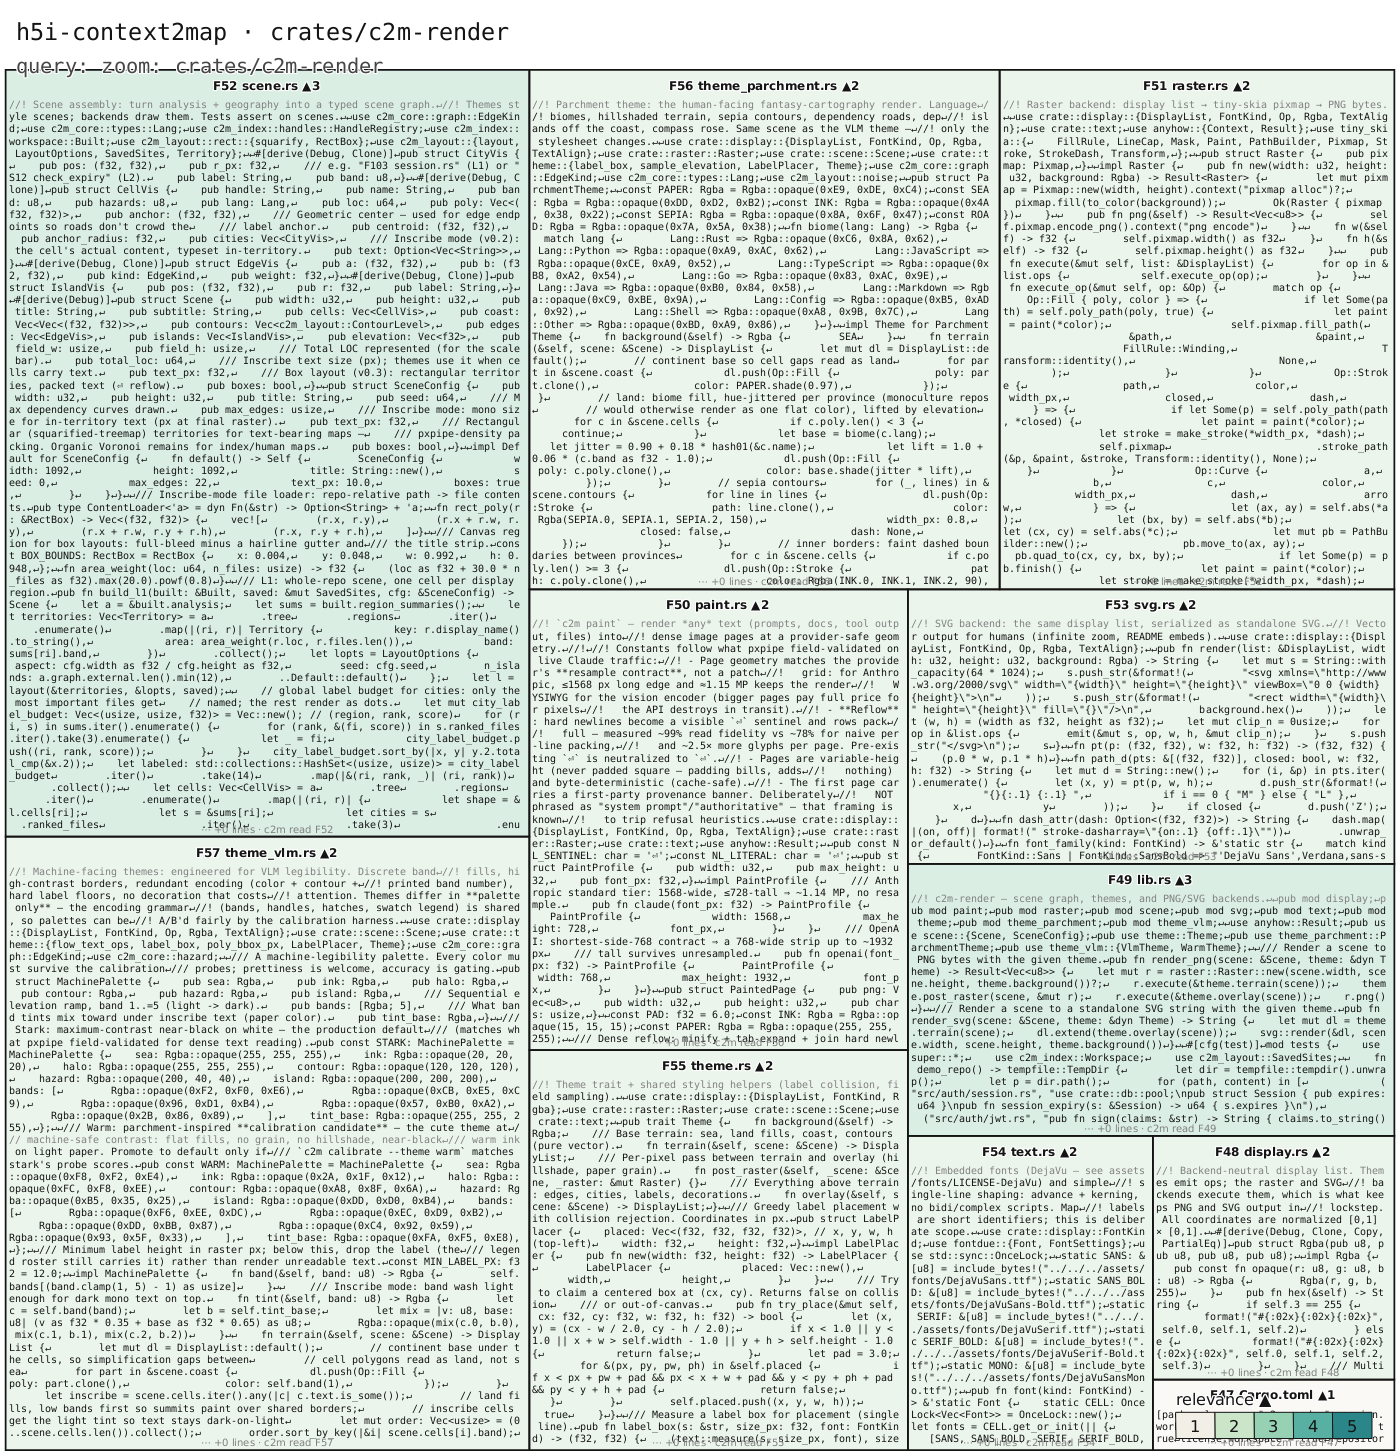
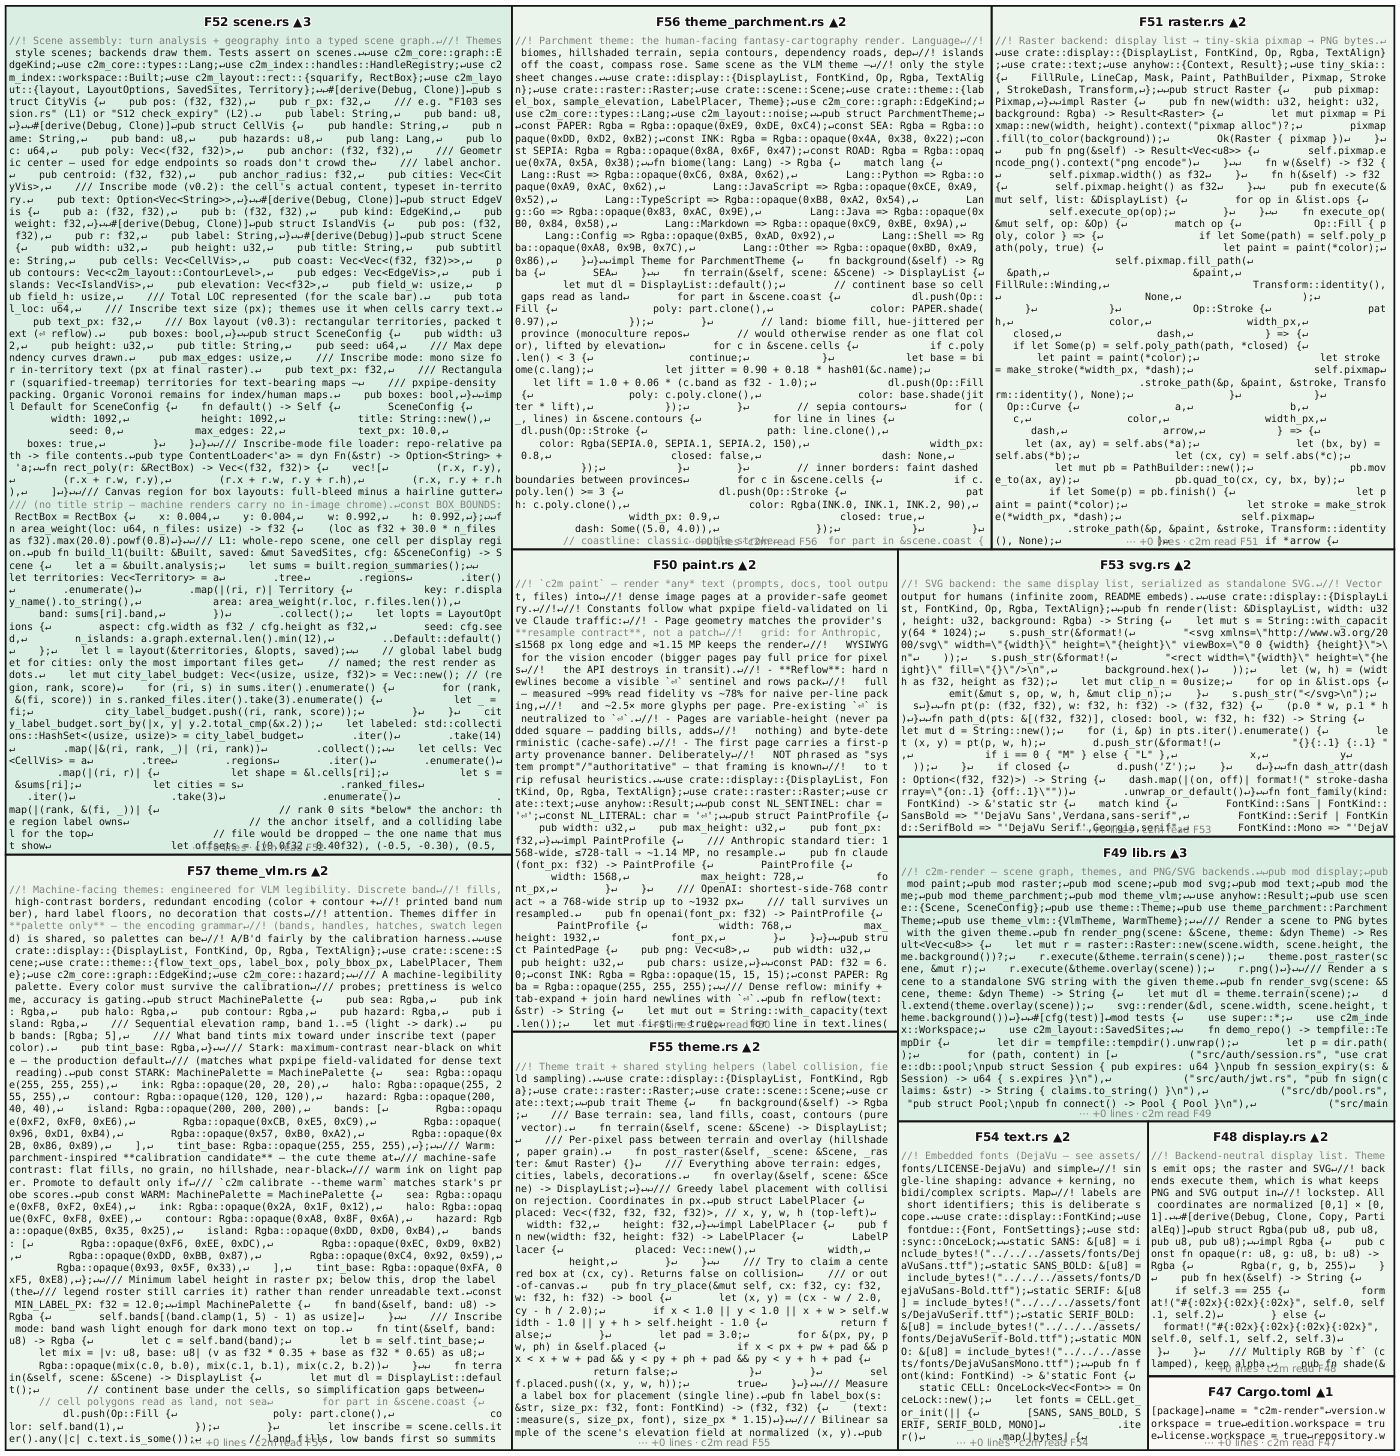
Drop in-image chrome from machine renders; legend rides as text/file
Machine themes no longer draw the title, query line, or band swatch
bar — that information always accompanies the render as text (legend,
roster, section TOC, factsheet), so in-image copies paid pixels for
nothing. Box layouts reclaim the title strip (full-bleed content).
paint now also writes the companion text beside the first page as
<name>.legend.txt (and reports legend_path in --json), so the pair
image+legend can be shipped around as files. README assets
regenerated chrome-free.

diff --git a/crates/c2m-render/src/theme_vlm.rs b/crates/c2m-render/src/theme_vlm.rs
@@ -330,68 +330,9 @@ impl MachinePalette {
             }
         }
 
-        // header: title + query (mono, top-left)
-        let hsize = (h * 0.014).max(MIN_LABEL_PX);
-        if !scene.title.is_empty() {
-            dl.push(Op::Text {
-                pos: (0.012, 0.028),
-                text: scene.title.clone(),
-                size_px: hsize * 1.15,
-                color: self.ink,
-                font: FontKind::Mono,
-                align: TextAlign::Left,
-                halo: Some(self.halo),
-            });
-        }
-        if !scene.subtitle.is_empty() {
-            dl.push(Op::Text {
-                pos: (0.012, 0.028 + hsize * 1.6 / h),
-                text: format!("query: {}", scene.subtitle),
-                size_px: hsize,
-                color: Rgba::opaque(70, 70, 70),
-                font: FontKind::Mono,
-                align: TextAlign::Left,
-                halo: Some(self.halo),
-            });
-        }
-
-        // band swatch bar (bottom-right): redundant legend inside the image
-        let sw = 0.028f32;
-        let sh = 0.018f32;
-        for band in 1..=5u8 {
-            let x = 1.0 - 0.02 - sw * (5 - band as i32 + 1) as f32;
-            let y = 1.0 - 0.03;
-            let poly = vec![(x, y), (x + sw, y), (x + sw, y + sh), (x, y + sh)];
-            dl.push(Op::Fill {
-                poly: poly.clone(),
-                color: self.band(band),
-            });
-            dl.push(Op::Stroke {
-                path: poly,
-                color: self.ink,
-                width_px: 1.0,
-                closed: true,
-                dash: None,
-            });
-            dl.push(Op::Text {
-                pos: (x + sw / 2.0, y + sh * 0.78),
-                text: format!("{band}"),
-                size_px: (h * sh * 0.62).max(9.0),
-                color: self.ink,
-                font: FontKind::Sans,
-                align: TextAlign::Center,
-                halo: None,
-            });
-        }
-        dl.push(Op::Text {
-            pos: (1.0 - 0.02 - sw * 5.0, 1.0 - 0.035),
-            text: "relevance ▲".to_string(),
-            size_px: (h * 0.011).max(9.0),
-            color: self.ink,
-            font: FontKind::Sans,
-            align: TextAlign::Left,
-            halo: Some(self.halo),
-        });
+        // No in-image title/query/swatch: that information always rides as
+        // adjacent text (legend/roster), and pixels are for content. Human
+        // themes keep their decorations.
         dl
     }
 }

diff --git a/crates/c2m-cli/src/ops.rs b/crates/c2m-cli/src/ops.rs
@@ -936,12 +936,36 @@ fn report_paint(
     sheet: &str,
     toc: Option<&str>,
 ) {
+    // the accompanying text (banner + toc + factsheet) — printed AND written
+    // beside the first page, since images deliberately carry no chrome
+    let mut companion = String::new();
+    companion.push_str(banner);
+    companion.push('\n');
+    if let Some(toc) = toc {
+        companion.push_str(&format!("# sections: {toc}\n"));
+    }
+    if !sheet.is_empty() {
+        companion.push_str(sheet);
+        companion.push('\n');
+    }
+    companion.push_str(&format!(
+        "# ~{image_tokens} image tok vs ~{text_tokens} text tok (~{:.0}% cut) — READ THE PAGES IN ORDER; quote identifiers from the factsheet, not the image\n",
+        (1.0 - image_tokens as f64 / text_tokens.max(1) as f64) * 100.0
+    ));
+    let legend_path = pages
+        .first()
+        .map(|(p, _, _)| p.with_extension("legend.txt"));
+    if let Some(lp) = &legend_path {
+        let _ = std::fs::write(lp, &companion);
+    }
+
     if json {
         println!(
             "{}",
             serde_json::json!({
                 "banner": banner,
                 "pages": pages.iter().map(|(p, _, _)| p).collect::<Vec<_>>(),
+                "legend_path": legend_path,
                 "image_tokens": image_tokens,
                 "text_tokens_estimate": text_tokens,
                 "savings_pct": (1.0 - image_tokens as f64 / text_tokens.max(1) as f64) * 100.0,
@@ -951,7 +975,6 @@ fn report_paint(
         );
         return;
     }
-    println!("{banner}");
     for (p, w, h) in pages {
         println!(
             "# page: {} ({w}x{h}, ~{} image tok)",
@@ -959,16 +982,7 @@ fn report_paint(
             provider.tokens(*w, *h)
         );
     }
-    if let Some(toc) = toc {
-        println!("# sections: {toc}");
-    }
-    if !sheet.is_empty() {
-        println!("{sheet}");
-    }
-    println!(
-        "# ~{image_tokens} image tok vs ~{text_tokens} text tok (~{:.0}% cut) — READ THE PAGES IN ORDER; quote identifiers from the factsheet, not the image",
-        (1.0 - image_tokens as f64 / text_tokens.max(1) as f64) * 100.0
-    );
+    print!("{companion}");
 }
 
 // ---------------------------------------------------------------- calibrate

diff --git a/crates/c2m-render/src/scene.rs b/crates/c2m-render/src/scene.rs
@@ -113,13 +113,13 @@ fn rect_poly(r: &RectBox) -> Vec<(f32, f32)> {
     ]
 }
 
-/// Canvas region for box layouts: full-bleed minus a hairline gutter and
-/// the title strip.
+/// Canvas region for box layouts: full-bleed minus a hairline gutter
+/// (no title strip — machine renders carry no in-image chrome).
 const BOX_BOUNDS: RectBox = RectBox {
     x: 0.004,
-    y: 0.048,
+    y: 0.004,
     w: 0.992,
-    h: 0.948,
+    h: 0.992,
 };
 
 fn area_weight(loc: u64, n_files: usize) -> f32 {